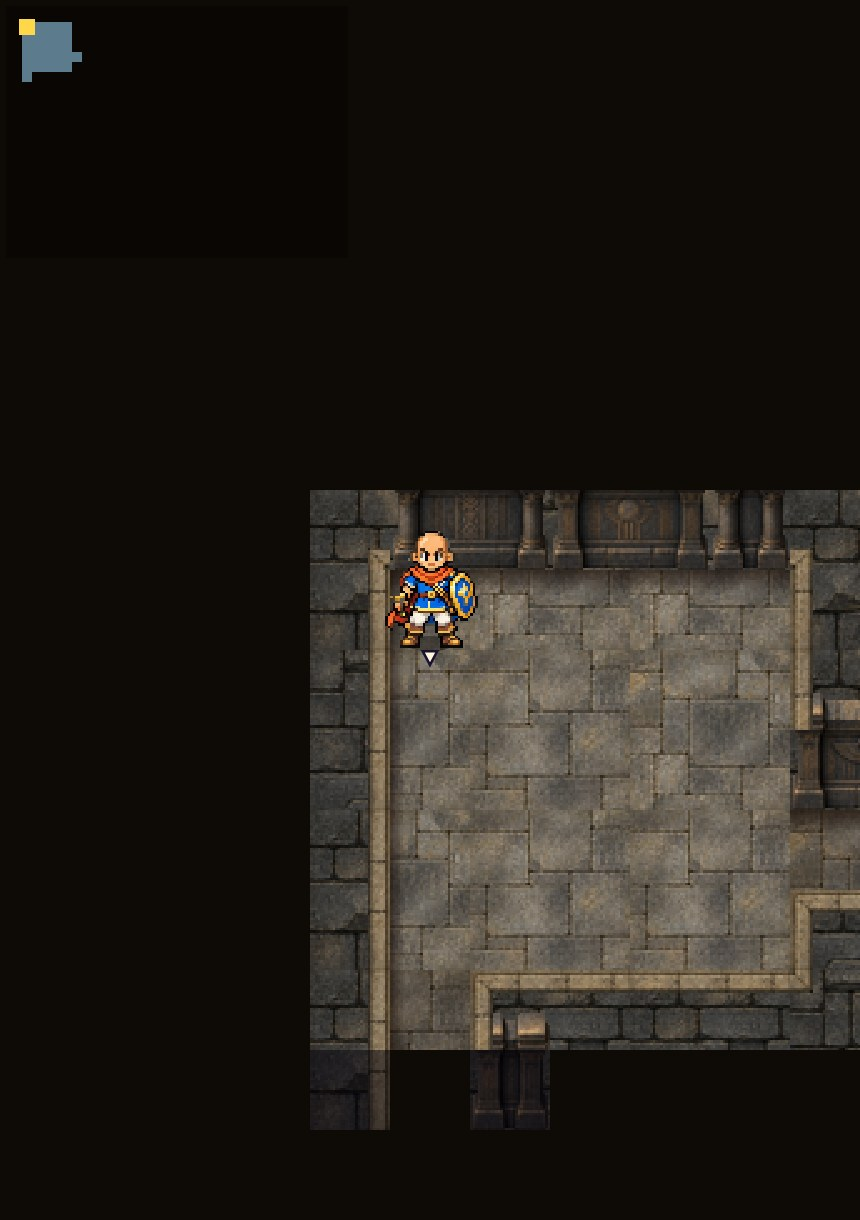
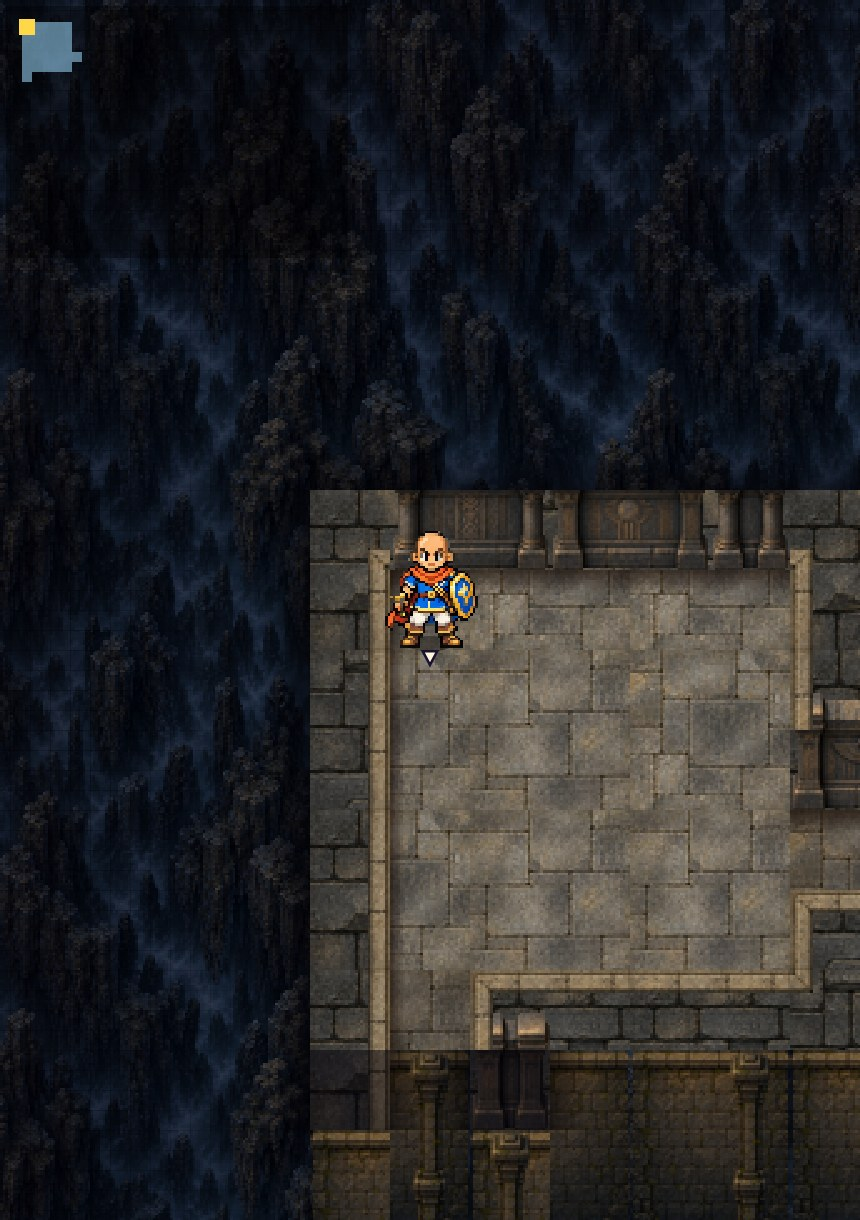
地下の遺跡（7〜14階）の奥行き（岩盤の背景・外壁・支柱）を本番に反映
試しにプレイするため。レンガの回廊・木の根の遺跡は専用素材待ちで今のまま。

Claude-Session: https://claude.ai/code/session_01HDLigwwegm7F2trSGLBQuS

diff --git a/js/data.js b/js/data.js
@@ -104,8 +104,9 @@
   /* 壁（正面・上面・縁・角・飾り）だけ暗くする割合（床・敵・道具・攻撃の予告はそのまま）。2026年10月22日：地下の遺跡の奥（11〜14階）を深く荘厳に */
   D.DUNGEON_WALL_DARK = { ruins_deep: 0.3 };
   /* 壁の外の背景（地図の外・壁の奥・未探索の所）を絵にする地域。2026年10月22日：仮の背景のプレビュー段階（本番は空）。
-   * DUNGEON_BACKDROP_DARK：背景を暗くする割合（仮の背景＝壁の上面の絵を暗くしたもの） */
-  D.DUNGEON_BACKDROP = {};
+   * DUNGEON_BACKDROP_DARK：背景を暗くする割合（仮の背景＝壁の上面の絵を暗くしたもの）
+   * 2026年10月22日：地下の遺跡（7〜14階）だけ本番（岩盤の背景・下へ伸びる外壁・支柱。ZIP ruins_depth_v1）。レンガ・木の根は専用素材待ち（壁柄の仮背景は本番にしない） */
+  D.DUNGEON_BACKDROP = { ruins: true, ruins_deep: true };
   D.DUNGEON_BACKDROP_DARK = 0.6;
   D.DUNGEON_CAVERN_DARK = 0.35;
   D.DUNGEON_CAVERN_SIZE = 256;   // 岩盤の背景の1枚の大きさ（マス32の座標で。256＝8×8マス。128だと柄のくり返しが目立った）   // 専用の岩盤の背景（地下の遺跡）を暗くする割合（外壁より暗く、床がいちばん読みやすく。仮）

diff --git a/docs/DUNGEON_ART_V1.md b/docs/DUNGEON_ART_V1.md
@@ -123,4 +123,4 @@
 - 描き方（`js/render.js` の drawBackdrop・drawDepth・edgeShade）：背景（岩盤と霧。8×8マスで地図に固定、35%暗く）→ 描いた地形の下向きの辺から外壁（2マス幅・約2.7マス、明るさ0.62）と4マスおきの支柱 → 今までの地形 → 道具・キャラクター・予告。
   - 外壁・支柱は「そのマスを描いたか・下のマスを描いたか」だけで決め、長さはいつも同じ（未探索の地形は見ない）。あとで描いた地形が上に重なる。
   - 左右の辺は今は半マスの影だけ（側面の絵が無い）。
-- 本番は空（`D.DUNGEON_BACKDROP`）。プレビュー：`node tools/dungeon-backdrop-preview.js docs/ruins-depth-v1 ruins,ruins_deep`（start・corridor・edge）。目標の絵との比較 `docs/ruins-depth-v1/concept_vs_game_390.jpg`。
+- 2026年10月22日：本番に反映（`D.DUNGEON_BACKDROP = { ruins, ruins_deep }`。床の周りの壁1マス・左右の辺の影・明るさは今のままで試しにプレイ）。プレビュー：`node tools/dungeon-backdrop-preview.js docs/ruins-depth-v1 ruins,ruins_deep`（start・corridor・edge）。目標の絵との比較 `docs/ruins-depth-v1/concept_vs_game_390.jpg`。
